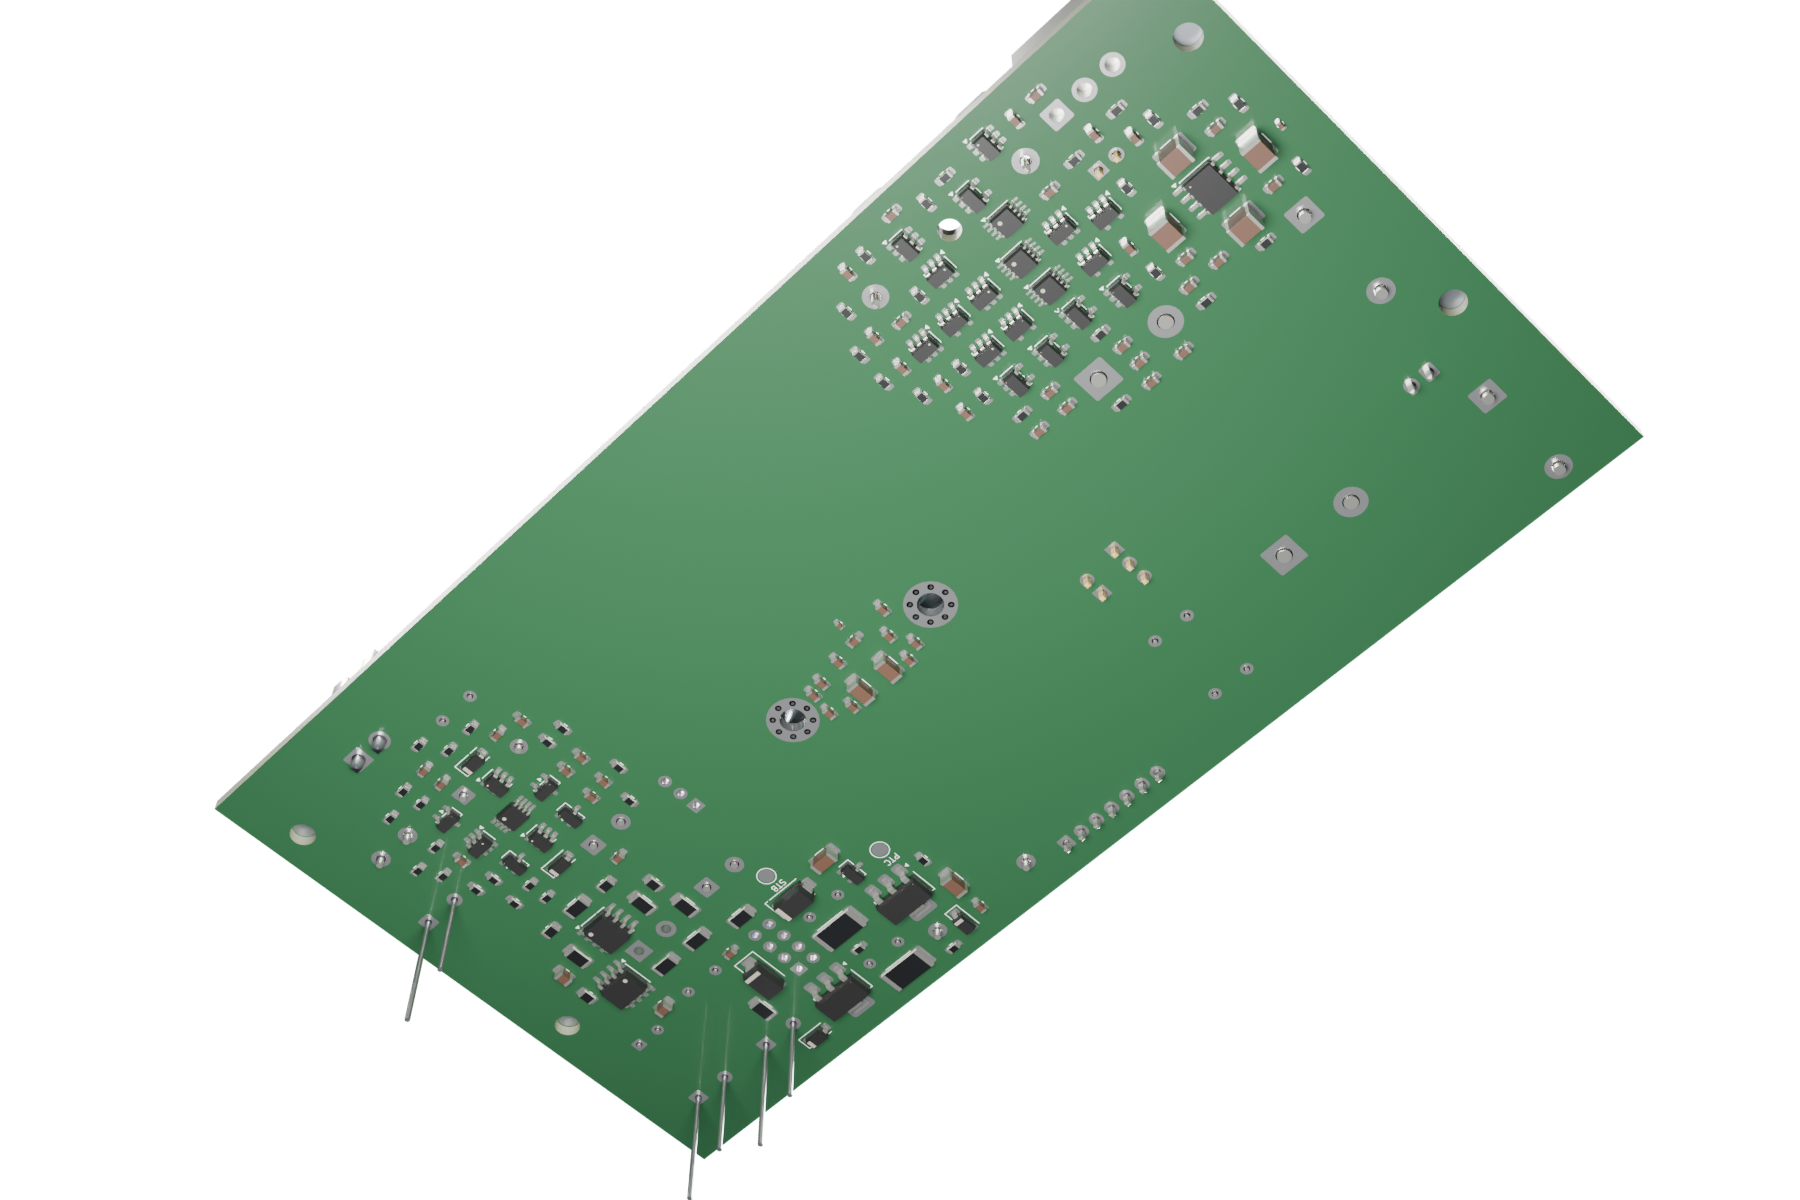
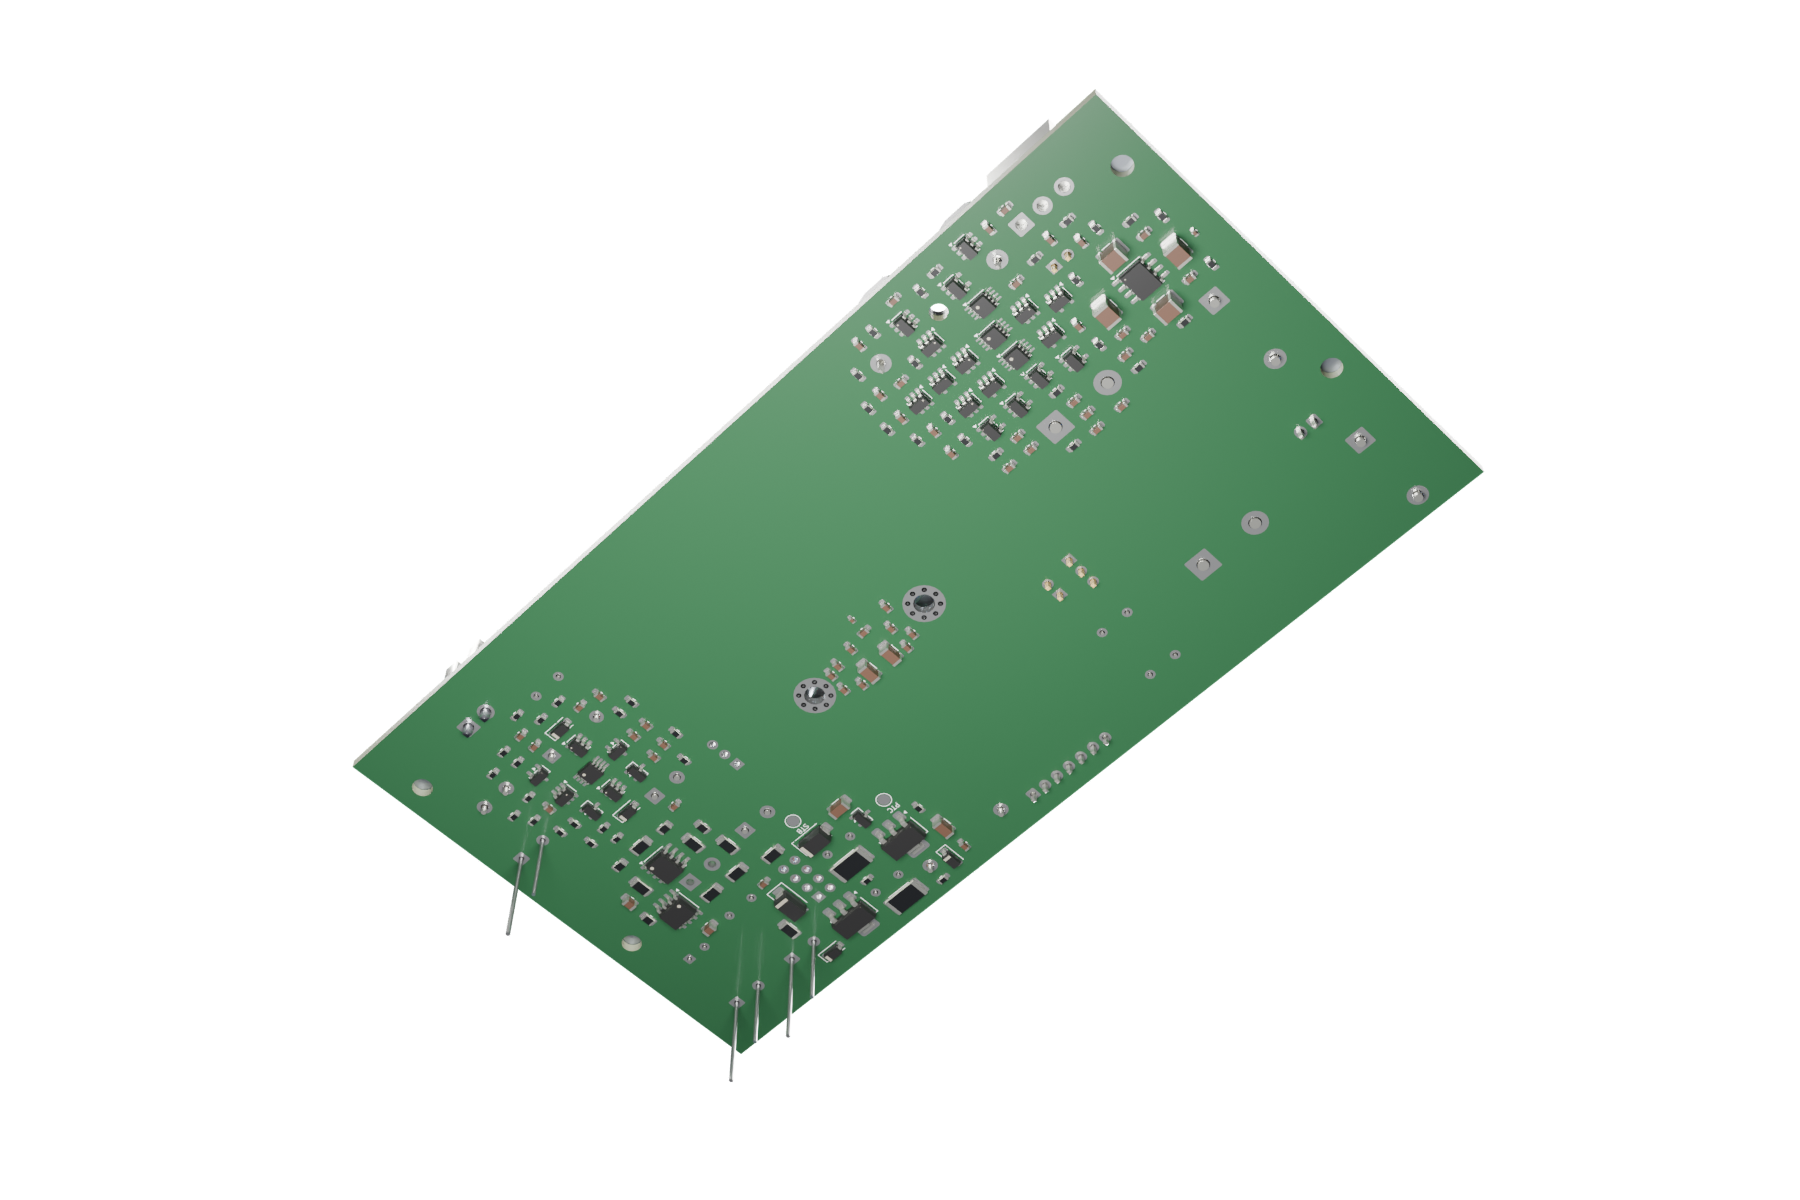
fix(eda): align source notes and keep the whole board framed

Changed region(s): [[0.1244, 0.0, 0.9333, 0.9867], [0.4044, 0.4625, 0.5289, 0.6167]]

diff --git a/scripts/integrate_candidate.py b/scripts/integrate_candidate.py
@@ -44,6 +44,11 @@ SWAPS = {
     "C14": ("Capacitor_THT", "CP_Radial_D12.5mm_P5.00mm", "680uF 63V", "UHE1J681MHD"),
     "C15": ("Capacitor_THT", "CP_Radial_D12.5mm_P5.00mm", "680uF 63V", "UHE1J681MHD"),
 }
+SWAP_SOURCES = {
+    "J5": "JST VH eVH-new p.3: B2P-VH(LF)(SN), 2 circuits, pitch3.96mm; D-031 OEM woofer harness",
+    "C14": "Nichicon UHE CAT.8100M: UHE1J681MHD 680uF 63V D12.5x40 P5; Zmax0.071ohm at100kHz/20C; ripple1280mA at100kHz/105C; D-031",
+    "C15": "Nichicon UHE CAT.8100M: UHE1J681MHD 680uF 63V D12.5x40 P5; Zmax0.071ohm at100kHz/20C; ripple1280mA at100kHz/105C; D-031",
+}
 # D-024: preamp drivers reach C20/C21; their TPA-side plates go to the relay COM.
 BRIDGE = {"DIFF_POS": "DIFF_P", "DIFF_NEG": "DIFF_N"}
 PLATES = {("C20", "2"): "INA_ISO", ("C21", "2"): "INB_ISO"}
@@ -712,6 +717,8 @@ def generate(out):
             if p["ref"] in SWAPS:
                 nick, name, value, mpn = SWAPS[p["ref"]]
                 p.update(value=value, mpn=mpn, footprint=f"{nick}:{name}")
+                p["source"] = SWAP_SOURCES[p["ref"]]
+                p["manufacturer"] = "JST" if p["ref"] == "J5" else "Nichicon"
         inventory = core + parts + added
         tree = parse(schematic(parts, added))
         for ref, (nick, name, value, mpn) in SWAPS.items():
@@ -721,6 +728,7 @@ def generate(out):
             set_property(symbol, "Value", value)
             set_property(symbol, "MPN", mpn)
             set_property(symbol, "Manufacturer", "JST" if ref == "J5" else "Nichicon")
+            set_property(symbol, "Source", SWAP_SOURCES[ref])
         (stage / (PROJECT + ".kicad_sch")).write_text(render(tree) + "\n")
         shutil.copytree(SOURCE / "libraries", stage / "libraries")
         for nickname, symbols in (("PS28_POWER", [tps3700_symbol()]), ("PS28_SEQ", [lp2985_symbol()]),

diff --git a/tests/unit/test_final_inventory.py b/tests/unit/test_final_inventory.py
@@ -29,6 +29,12 @@ class FinalInventoryTests(unittest.TestCase):
             self.assertEqual(parts["C14"]["MPN"], "UHE1J681MHD")
             self.assertEqual(parts["C15"]["MPN"], "UHE1J681MHD")
             self.assertEqual(parts["J5"]["MPN"], "B2P-VH(LF)(SN)")
+            self.assertIn("UHE1J681MHD", parts["C14"]["Source"])
+            self.assertIn("pitch3.96mm", parts["J5"]["Source"])
+            import json
+            manifest = json.loads((out / "system-manifest.json").read_text())
+            selected = {p["ref"]: p for p in manifest["parts"]}
+            self.assertEqual(selected["J5"]["manufacturer"], "JST")
 
     def test_missing_purchase_information_is_not_hidden_by_generic_mpn(self):
         rows = inventory('''<export><components>
@@ -55,7 +61,9 @@ class FinalInventoryTests(unittest.TestCase):
             self.assertEqual(fields[ref]["MPN"], "UHE1J681MHD")
             self.assertIn("680", fields[ref]["Value"])
             self.assertIn("D12.5mm", fields[ref]["Footprint"])
+            self.assertNotIn("UHE1J152MHD", fields[ref]["Source"])
         self.assertEqual(fields["J5"]["MPN"], "B2P-VH(LF)(SN)")
+        self.assertIn("pitch3.96mm", fields["J5"]["Source"])
         for ref in ("R101", "R102"):
             self.assertTrue(fields[ref]["MPN"].startswith("CRCW0805"))
             self.assertIn("0805", fields[ref]["Footprint"])

diff --git a/scripts/blender_pcb_studio.py b/scripts/blender_pcb_studio.py
@@ -12,6 +12,7 @@ from pathlib import Path
 
 import bpy
 from mathutils import Vector
+from bpy_extras.object_utils import world_to_camera_view
 
 ROOT = Path(__file__).resolve().parents[1]
 OUT = ROOT / "build/studio"
@@ -101,6 +102,15 @@ def setup():
 def frame(scene, center, offset):
     scene.camera.location = center + Vector(offset)
     scene.camera.rotation_euler = (center - scene.camera.location).to_track_quat("-Z", "Y").to_euler()
+    points = [o.matrix_world @ Vector(p) for o in scene.objects if o.type == "MESH" for p in o.bound_box]
+    for _ in range(6):
+        bpy.context.view_layer.update()
+        projected = [world_to_camera_view(scene, scene.camera, p) for p in points]
+        span = max(abs(v - .5) * 2 for p in projected for v in (p.x, p.y))
+        if span <= .9 and min(p.z for p in projected) > 0:
+            return
+        scene.camera.location = center + (scene.camera.location - center) * max(1.1, span / .88)
+    raise ValueError("Board does not fit the camera with a 5 percent border")
 
 
 def render():
